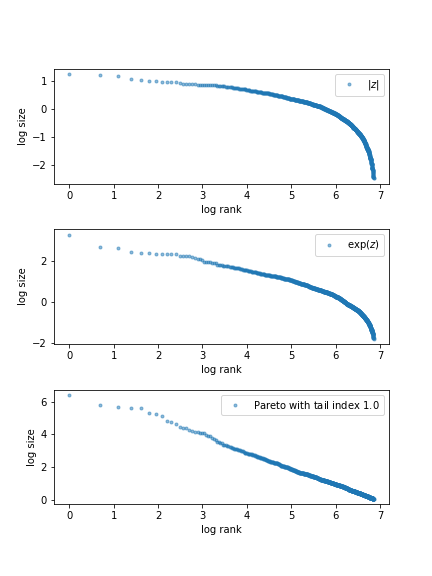
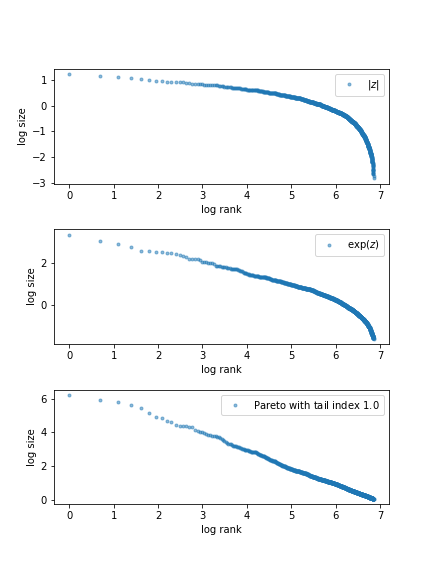
misc

diff --git a/source/rst/heavy_tails.rst b/source/rst/heavy_tails.rst
@@ -91,7 +91,8 @@ to plot independent draws and compare them side-by-side.
 A Simulation
 -------------
 
-The figure below shows a simulation.
+The figure below shows a simulation.  (You will be asked to replicate it in
+the exercises.)
 
 The top two subfigures each show 120 independent draws from the normal distribution, which is light-tailed.
 
@@ -268,26 +269,27 @@ nonnegative random variables and their distributions.
 The definitions for
 left hand tails are very similar and we omit them to simplify the exposition.
 
+Light and Heavy Tails
+---------------------
+
 A distribution :math:`F` on :math:`\mathbb R_+` is called **heavy-tailed** if
 
 .. math::
     :label: defht
 
-    \int_0^\infty \me^{tx} F(\diff x) = \infty \; \text{ for all } t > 0.
+    \int_0^\infty \exp(tx) F(x) = \infty \; \text{ for all } t > 0.
 
 We say that a nonnegative random variable :math:`X` is **heavy-tailed** if its distribution :math:`F(x) := \mathbb P\{X \leq x\}` is heavy-tailed.
 
-This is equivalent to stating that 
-its **moment generating function** 
+This is equivalent to stating that its **moment generating function** 
 :math:`m(t) := \mathbb E \exp(t X)` is infinite for all :math:`t > 0`.
 
 * For example, the lognormal distribution is heavy-tailed because its
   moment generating function is infinite everywhere on :math:`(0, \infty)`.
 
-A distribution :math:`F` on :math:`\RR_+` is called **light-tailed** if it is not heavy-tailed.  
+A distribution :math:`F` on :math:`\mathbb R_+` is called **light-tailed** if it is not heavy-tailed.  
 
-A nonnegative random variable :math:`X` is **light-tailed** if
-its distribution :math:`F` is light-tailed.
+A nonnegative random variable :math:`X` is **light-tailed** if its distribution :math:`F` is light-tailed.
 
 * Example: Every random variable with bounded support is light-tailed. (Why?)
 
@@ -301,8 +303,12 @@ The latter condition is not necessary, however.
 
 * Example: the lognormal distribution is heavy-tailed but every moment is finite.
 
+
+Pareto Tails
+------------
+
 One specific class of heavy-tailed distributions has been found repeatedly in
-economic and social phenomena: the class of power laws.
+economic and social phenomena: the class of so-called power laws.
 
 Specifically, given :math:`\alpha > 0`, a nonnegative random variable :math:`X` is said to have a **Pareto tail** with **tail index** :math:`\alpha` if 
 
@@ -311,11 +317,11 @@ Specifically, given :math:`\alpha > 0`, a nonnegative random variable :math:`X` 
 
     \lim_{x \to \infty} x^\alpha \, \mathbb P\{X > x\} = c.
 
-Evidently :eq:`plrl` implies the existence of positive constants :math:`b` and :math:`\bar x` such that :math:`\mathbb P\{X > x\} \geq b x^{- \alpha}` whenever :math:`x \geq \bar x`.  
+Evidently :eq:`plrt` implies the existence of positive constants :math:`b` and :math:`\bar x` such that :math:`\mathbb P\{X > x\} \geq b x^{- \alpha}` whenever :math:`x \geq \bar x`.  
 
 The implication is that :math:`\mathbb P\{X > x\}` converges to zero no faster than :math:`x^{-\alpha}`.  
     
-In some sources, a random variable obeying :eq:`plrl` is said to have a **power law tail**.
+In some sources, a random variable obeying :eq:`plrt` is said to have a **power law tail**.
 
 The primary example is the **Pareto distribution**, which has distribution
 
@@ -342,7 +348,7 @@ Rank-Size Plots
 ---------------
 
 
-A graphical technique for investigating Pareto tails and power laws is the so-called **rank-size plot**.
+One graphical technique for investigating Pareto tails and power laws is the so-called **rank-size plot**.
 
 This kind of figure plots
 log size against log rank of the population (i.e., location in the population
@@ -395,7 +401,7 @@ Cauchy) with three Pareto distributions using different choices of
 
 For :math:`\alpha`, try 1.15, 1.5 and 1.75.
 
-Use ``np.random.seed(12)`` to set the seed.
+Use ``np.random.seed(11)`` to set the seed.
 
 
 
@@ -404,7 +410,7 @@ Exercise 4
 
 Replicate the rank-size plot figure :ref:`presented above <rank_size_fig1>`.
 
-Use ``np.random.seed(11)`` to set the seed.
+Use ``np.random.seed(13)`` to set the seed.
 
 
 
@@ -475,6 +481,29 @@ Exercise 3
 ----------
 
 
+.. code:: ipython3
+
+    from scipy.stats import pareto
+
+    np.random.seed(11)
+
+    n = 120
+    alphas = [1.15, 1.50, 1.75]
+    
+    fig, axes = plt.subplots(3, 1, figsize=(6, 8))
+
+    for (a, ax) in zip(alphas, axes):
+        ax.set_ylim((-5, 50))
+        data = pareto.rvs(size=n, scale=1, b=a)
+        ax.plot(list(range(n)), data, linestyle='', marker='o', alpha=0.5, ms=4)
+        ax.vlines(list(range(n)), 0, data, lw=0.2)
+        ax.set_title(f"Pareto draws with $\\alpha = {a}$", fontsize=11)
+    
+    plt.subplots_adjust(hspace=0.4)
+    
+    plt.show()
+
+
 
 Exercise 4
 ----------
@@ -499,8 +528,9 @@ First we will create a function and then generate the plot
 
     fig, axes = plt.subplots(3, 1, figsize=(6, 8))
     axes = axes.flatten()
-    
+
     sample_size = 1000
+    np.random.seed(13)   
     z = np.random.randn(sample_size)
     
     data_1 = np.abs(z)
@@ -523,7 +553,6 @@ First we will create a function and then generate the plot
     
     fig.subplots_adjust(hspace=0.4)
     
-    plt.savefig("rank_size_fig1.png")
     plt.show()
 
 

diff --git a/source/rst/smoothing_tax.rst b/source/rst/smoothing_tax.rst
@@ -60,7 +60,7 @@ interpretation.
 
 
 Isomorphism between Consumption and Tax Smoothing
----------------------------------------------
+-------------------------------------------------
 
 It is convenient that for each version of a consumption-smoothing model,  a tax-smoothing counterpart can be obtained simply by
 
